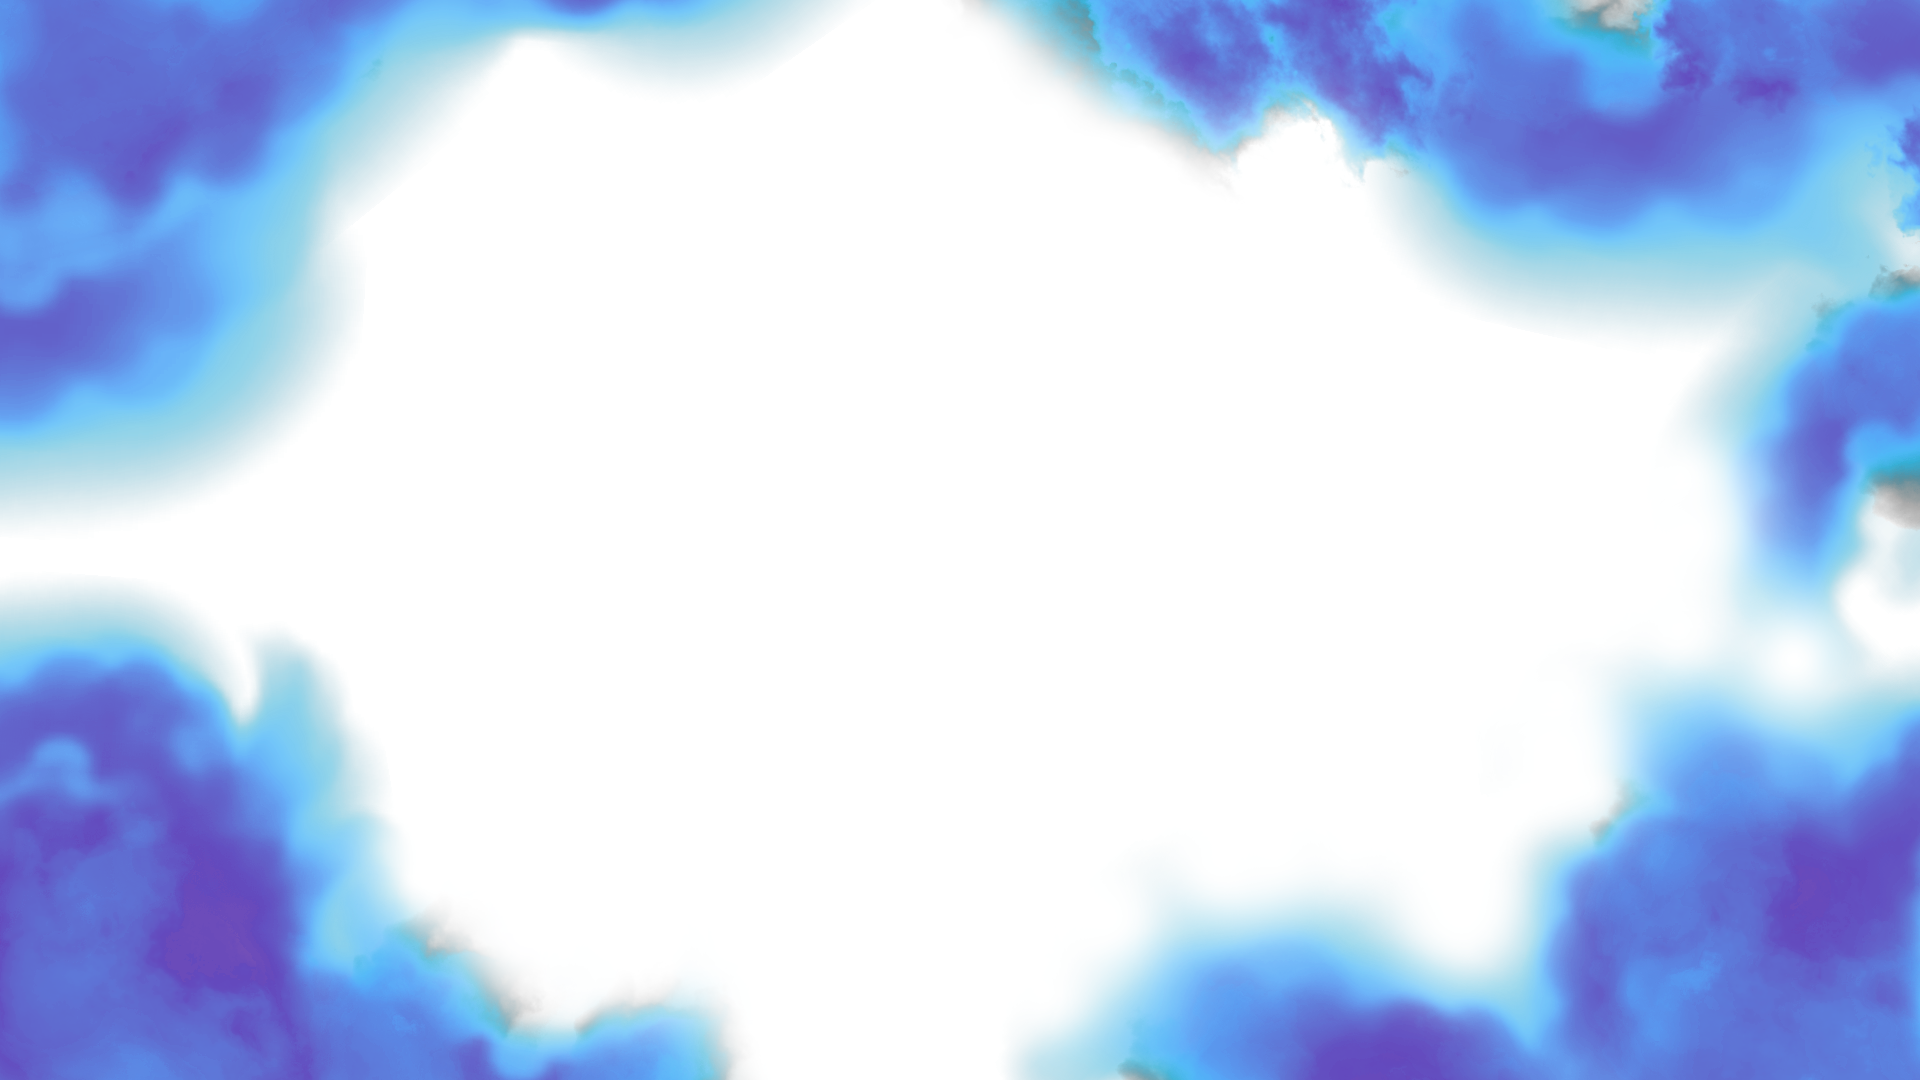
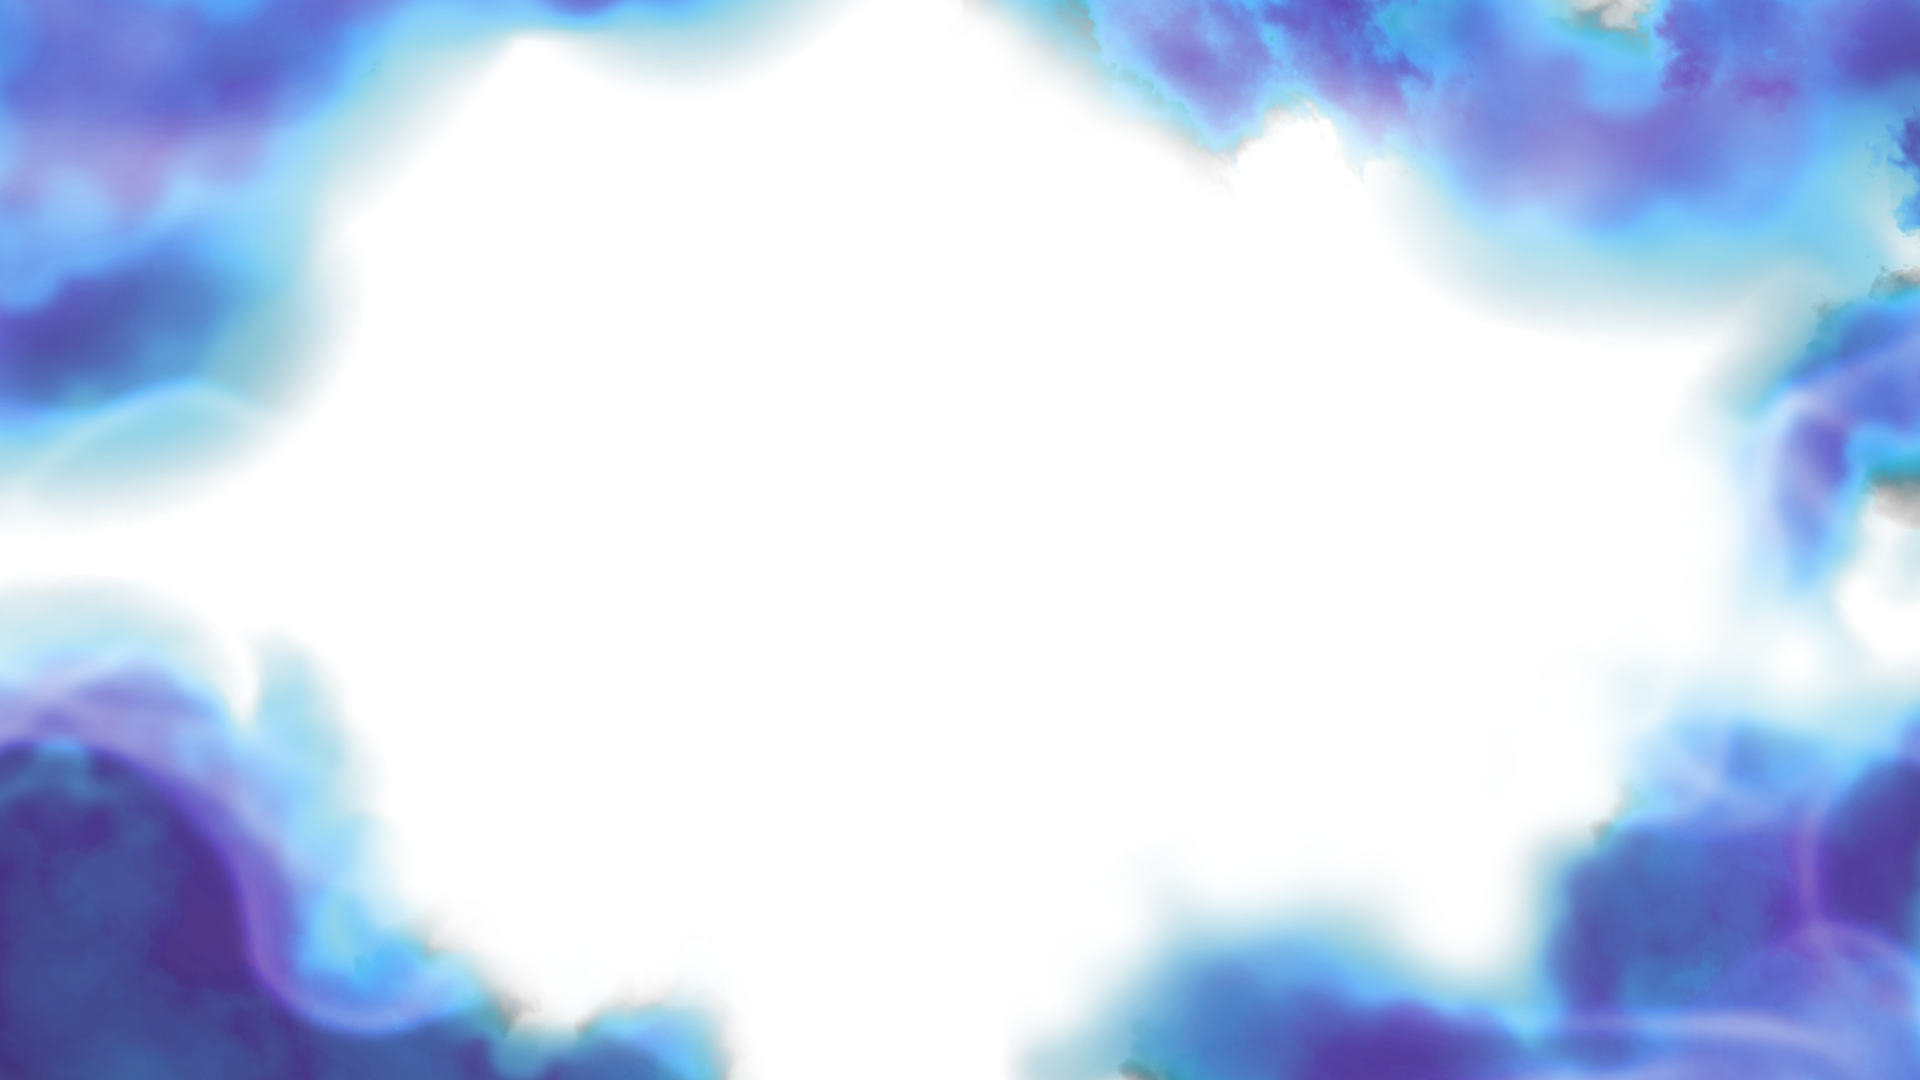
Add background to menuScreen

diff --git a/src/main/java/inf112/roborally/game/screens/menus/MenuScreen.java b/src/main/java/inf112/roborally/game/screens/menus/MenuScreen.java
@@ -5,6 +5,7 @@ import com.badlogic.gdx.Input;
 import com.badlogic.gdx.Screen;
 import com.badlogic.gdx.graphics.Color;
 import com.badlogic.gdx.scenes.scene2d.InputEvent;
+import com.badlogic.gdx.scenes.scene2d.ui.Image;
 import com.badlogic.gdx.scenes.scene2d.ui.Label;
 import com.badlogic.gdx.scenes.scene2d.ui.Table;
 import com.badlogic.gdx.scenes.scene2d.ui.TextButton;
@@ -14,6 +15,7 @@ import inf112.roborally.game.RoboRallyGame;
 import inf112.roborally.game.screens.BasicScreen;
 import inf112.roborally.game.screens.menus.multiplayer.MultiplayerScreen;
 import inf112.roborally.game.screens.menus.multiplayer.NameScreen;
+import inf112.roborally.game.tools.AssMan;
 import inf112.roborally.game.tools.ButtonFactory;
 
 public class MenuScreen extends BasicScreen {
@@ -24,9 +26,8 @@ public class MenuScreen extends BasicScreen {
         super(game);
         this.game = game;
         back.setVisible(false);
+        stage.addActor(new Image(AssMan.manager.get(AssMan.MENU_BACKGROUND)));
 
-        Label label = ButtonFactory.createLabel("RoboRally", Color.WHITE);
-        label.setFontScale(10);
         TextButton quick = ButtonFactory.createTextButton("Quick Play", 2);
         quick.addListener(new ClickListener() {
             @Override
@@ -50,8 +51,7 @@ public class MenuScreen extends BasicScreen {
         });
 
         Table menuButtons = new Table();
-        menuButtons.setPosition(1920 / 2, 1080 / 2, Align.center);
-        menuButtons.add(label);
+        menuButtons.setPosition(1920 / 2, 450, Align.center);
         menuButtons.row().padTop(10);
         menuButtons.add(quick);
         menuButtons.row().padTop(10);

diff --git a/src/main/java/inf112/roborally/game/tools/AssMan.java b/src/main/java/inf112/roborally/game/tools/AssMan.java
@@ -42,6 +42,11 @@ public class AssMan {
             = new AssetDescriptor<>("assets/gui/buttons/buttonClear.png", Texture.class);
     public static final AssetDescriptor<Texture> BUTTON_SETTINGS
             = new AssetDescriptor<>("assets/buttons/settingsbtn.png", Texture.class);
+
+    //MenuScreen
+    public static final AssetDescriptor<Texture> MENU_BACKGROUND
+            = new AssetDescriptor<>("assets/img/menuScreen.png", Texture.class);
+
     //GameScreen
     public static final AssetDescriptor<Texture> GAME_BACKGROUND
             = new AssetDescriptor<>("assets/img/background.png", Texture.class);
@@ -177,6 +182,9 @@ public class AssMan {
         manager.load(BUTTON_SUBMIT_GREY);
         manager.load(BUTTON_CLEAR);
         manager.load(BUTTON_SETTINGS);
+
+        //MENU
+        manager.load(MENU_BACKGROUND);
 
         //Gamescreen
         manager.load(GAME_BACKGROUND);
